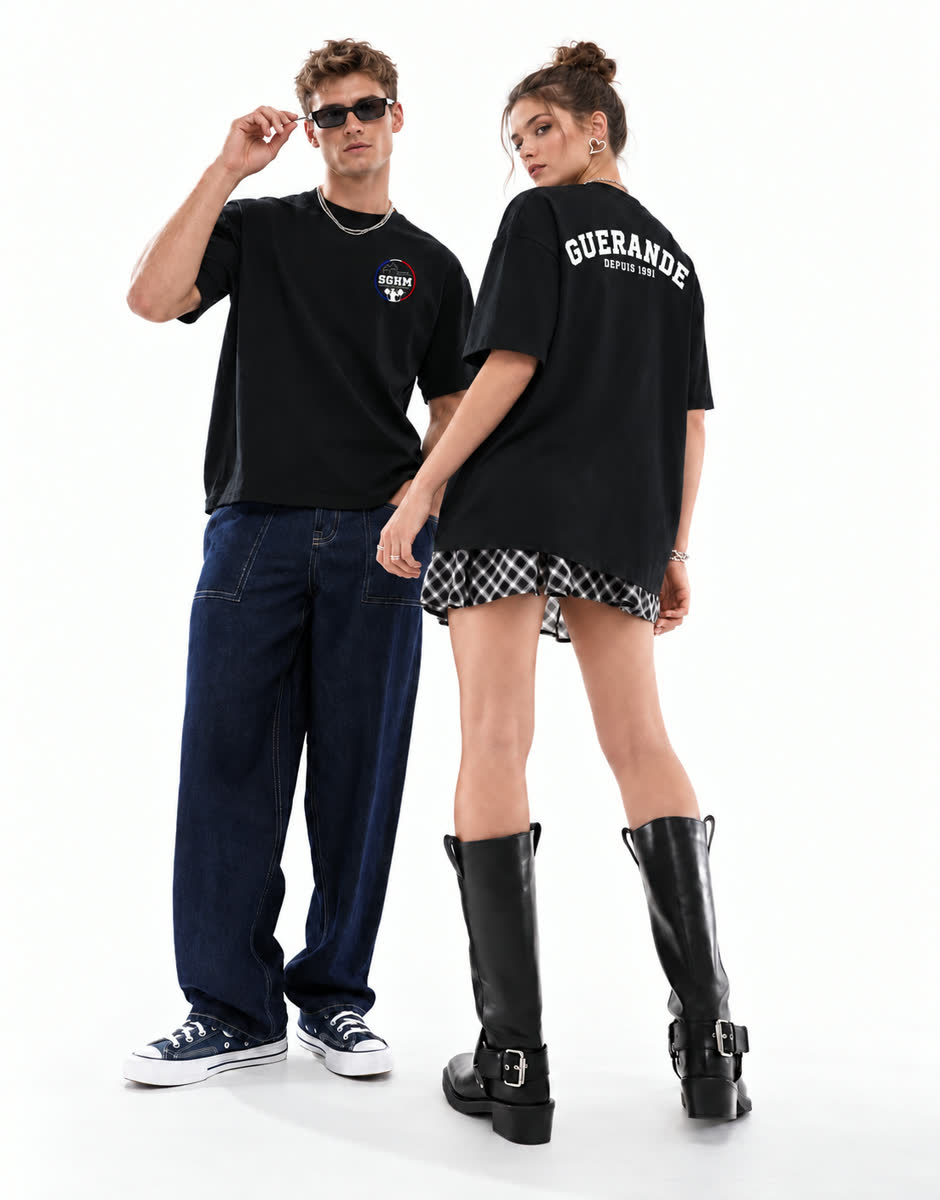
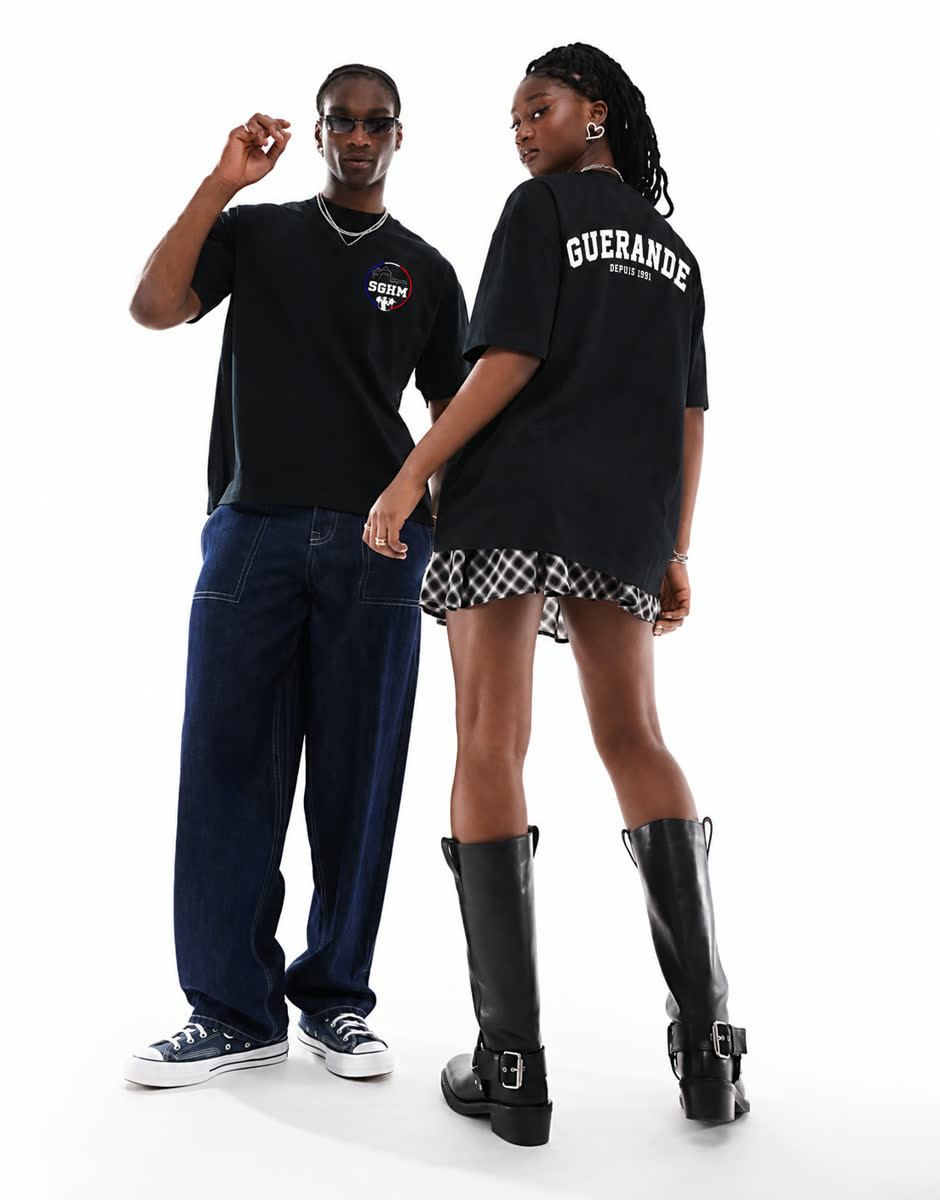
Update t-shirt model photos, zoom on shirts, add AI photo notice
- New model photos for Classique and Compétition (compressed from PNG)
- Per-photo zoom and anchor so the shirts fill the frame
- "Photos non contractuelles, générées par IA" under the section

diff --git a/app/components/PreorderSection.vue b/app/components/PreorderSection.vue
@@ -9,14 +9,14 @@ const products = [
     name: 'T-shirt Classique',
     tagline: 'Le t-shirt classique du club, pour venir s\'entraîner comme pour le quotidien. Le logo SGHM sur le cœur, « Guérande, depuis 1991 » dans le dos.',
     price: '25 €',
-    worn: { src: '/tshirt-classic-worn.jpg', alt: 'Deux personnes portant le T-shirt Classique SGHM, vu de face et de dos' },
+    worn: { zoom: 2, focus: '45% 6%', src: '/tshirt-classic-worn.jpg', alt: 'Deux personnes portant le T-shirt Classique SGHM, vu de face et de dos' },
     flat: { src: '/tshirt-classic.jpg', alt: 'T-shirt Classique SGHM noir, face et dos : logo du club sur le cœur, « Guérande depuis 1991 » dans le dos' }
   },
   {
     name: 'T-shirt Compétition',
     tagline: 'Le t-shirt de compétition, conçu pour être porté sous le singlet et pensé pour des performances optimales sur le plateau.',
     price: 'Prix à confirmer',
-    worn: { src: '/tshirt-comp-worn.jpg', alt: 'Deux personnes portant le T-shirt Compétition SGHM, vu de face et de dos' },
+    worn: { zoom: 1.2, focus: '60% 40%', src: '/tshirt-comp-worn.jpg', alt: 'Deux personnes portant le T-shirt Compétition SGHM, vu de face et de dos' },
     flat: { src: '/tshirt-comp.jpg', alt: 'T-shirt Compétition SGHM noir, face et dos : SGHM sur l\'encolure, écusson Force Athlétique dans le dos' }
   }
 ]
@@ -40,7 +40,16 @@ const products = [
         :class="{ 'preorder__product--reverse': index % 2 }"
       >
         <div class="preorder__media">
-          <img :src="product.worn.src" :alt="product.worn.alt" class="preorder__worn" loading="lazy" decoding="async">
+          <div class="preorder__frame">
+            <img
+              :src="product.worn.src"
+              :alt="product.worn.alt"
+              class="preorder__worn"
+              :style="{ transform: `scale(${product.worn.zoom})`, transformOrigin: product.worn.focus }"
+              loading="lazy"
+              decoding="async"
+            >
+          </div>
           <img :src="product.flat.src" :alt="product.flat.alt" class="preorder__flat" loading="lazy" decoding="async">
         </div>
 
@@ -73,6 +82,8 @@ const products = [
 
       <p class="preorder__note">
         Paiement sécurisé sur HelloAsso · Retrait à la salle, aux heures d'ouverture · {{ DEADLINE }}
+        <br>
+        <em>Photos non contractuelles, générées par IA.</em>
       </p>
     </div>
   </section>
@@ -95,13 +106,19 @@ const products = [
   margin-bottom: var(--space-8);
 }
 
+.preorder__frame {
+  aspect-ratio: 4 / 5;
+  overflow: hidden;
+  border-radius: var(--radius-lg);
+  background: #fff;
+}
+
+/* zoomed in on the shirts; zoom/focus set per photo in `products` */
 .preorder__worn {
   display: block;
   width: 100%;
-  aspect-ratio: 4 / 5;
+  height: 100%;
   object-fit: cover;
-  border-radius: var(--radius-lg);
-  background: #fff;
 }
 
 /* flat product shot straddling the photo's edge */
